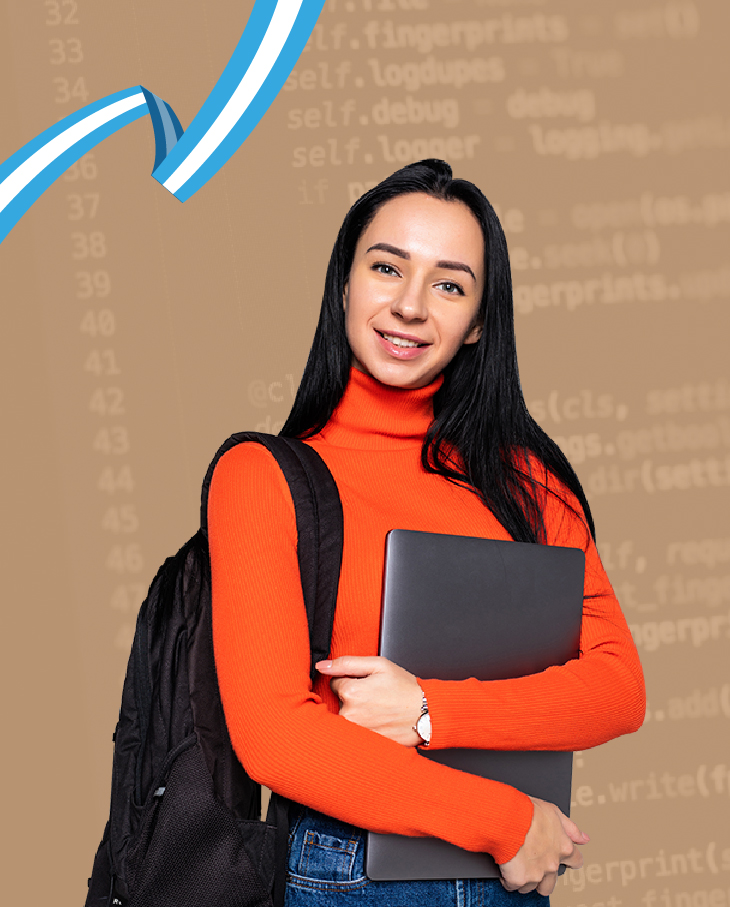
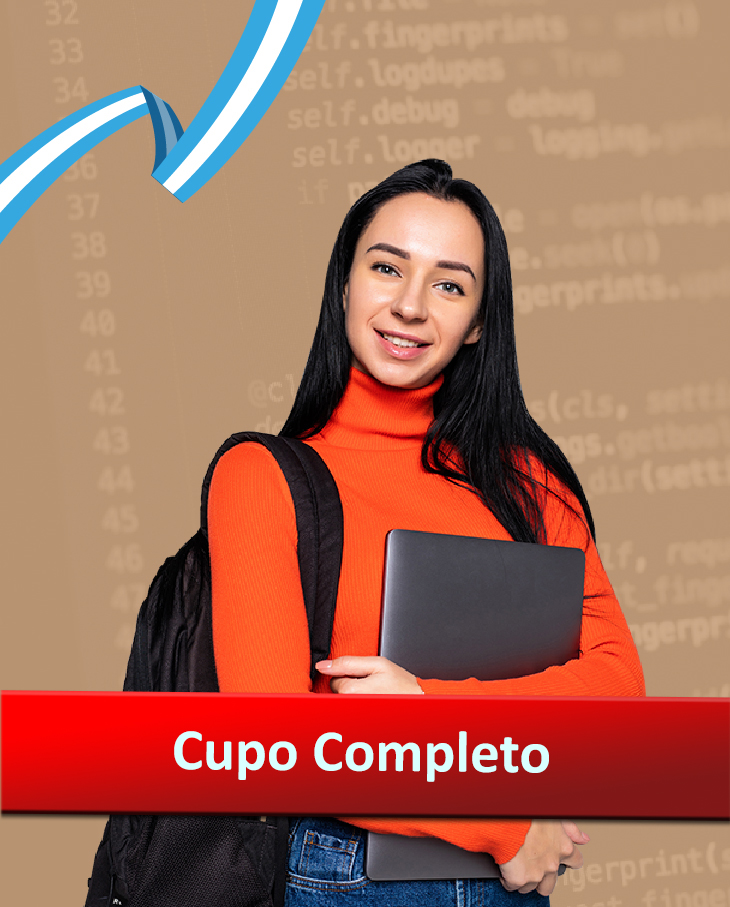
programador completo

Changed region(s): [[0.0, 0.7409, 1.0, 0.9261]]

diff --git a/programador.html b/programador.html
@@ -80,7 +80,7 @@
             <li>- Todos los cursos son <strong>TOTALMENTE GRATUITOS</strong></li>
         </ul><br>
 
-        <a href="https://forms.gle/W4LwP3zUNYkNMki26" target="_blank"><button class="mas_info">Inscripción</button></a><br>
+        <a href="#"><button class="mas_info">Cupo Completo</button></a><br>
     </div>
 </body>
 
